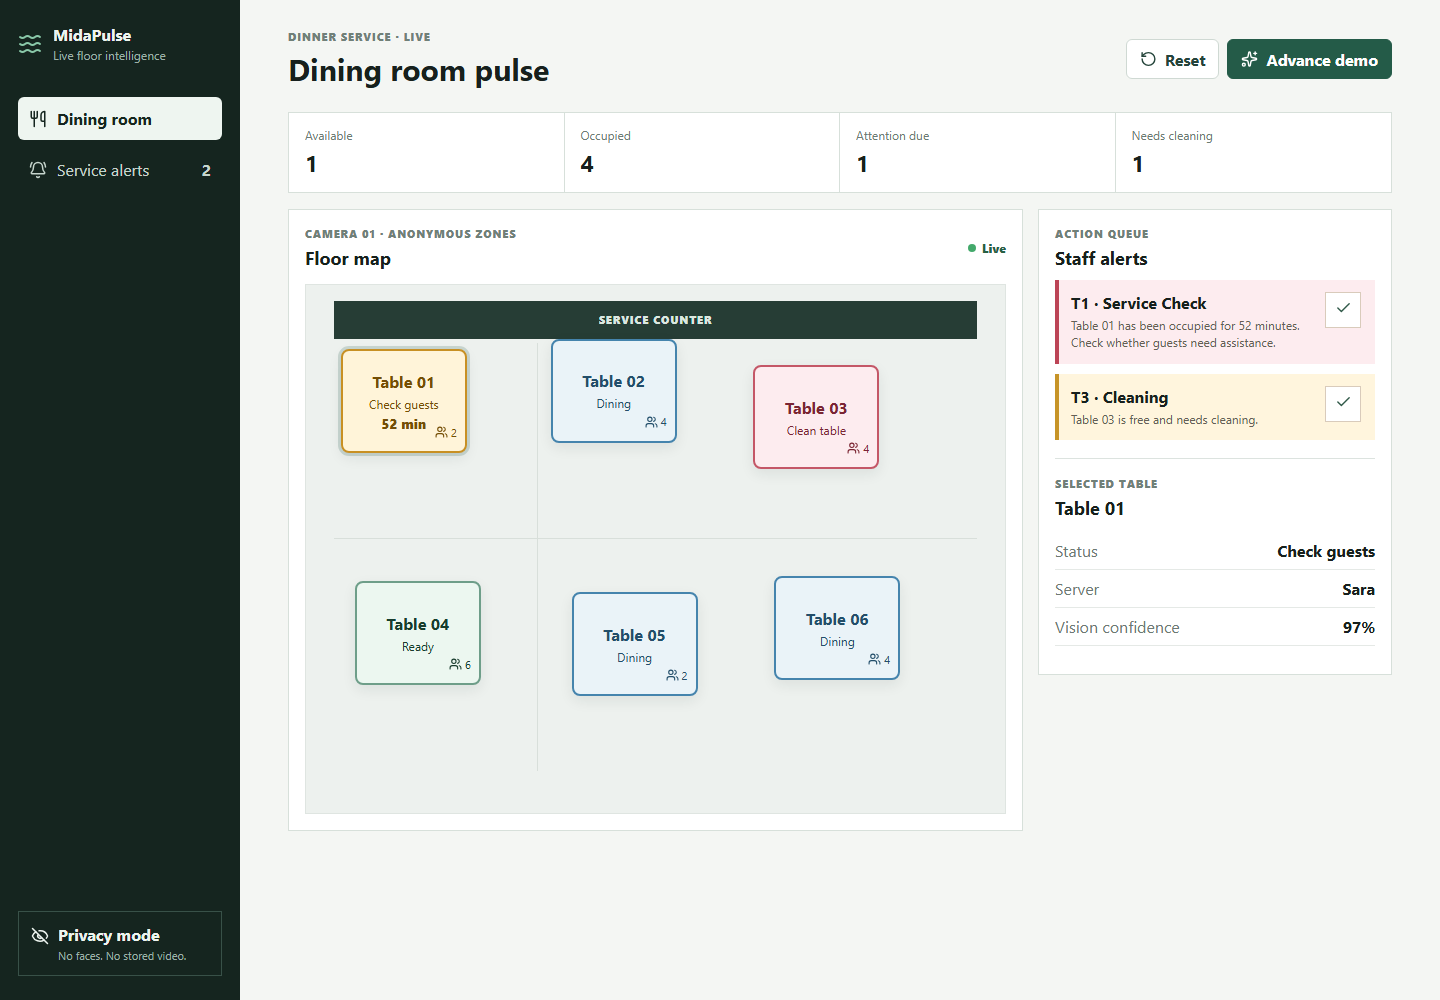
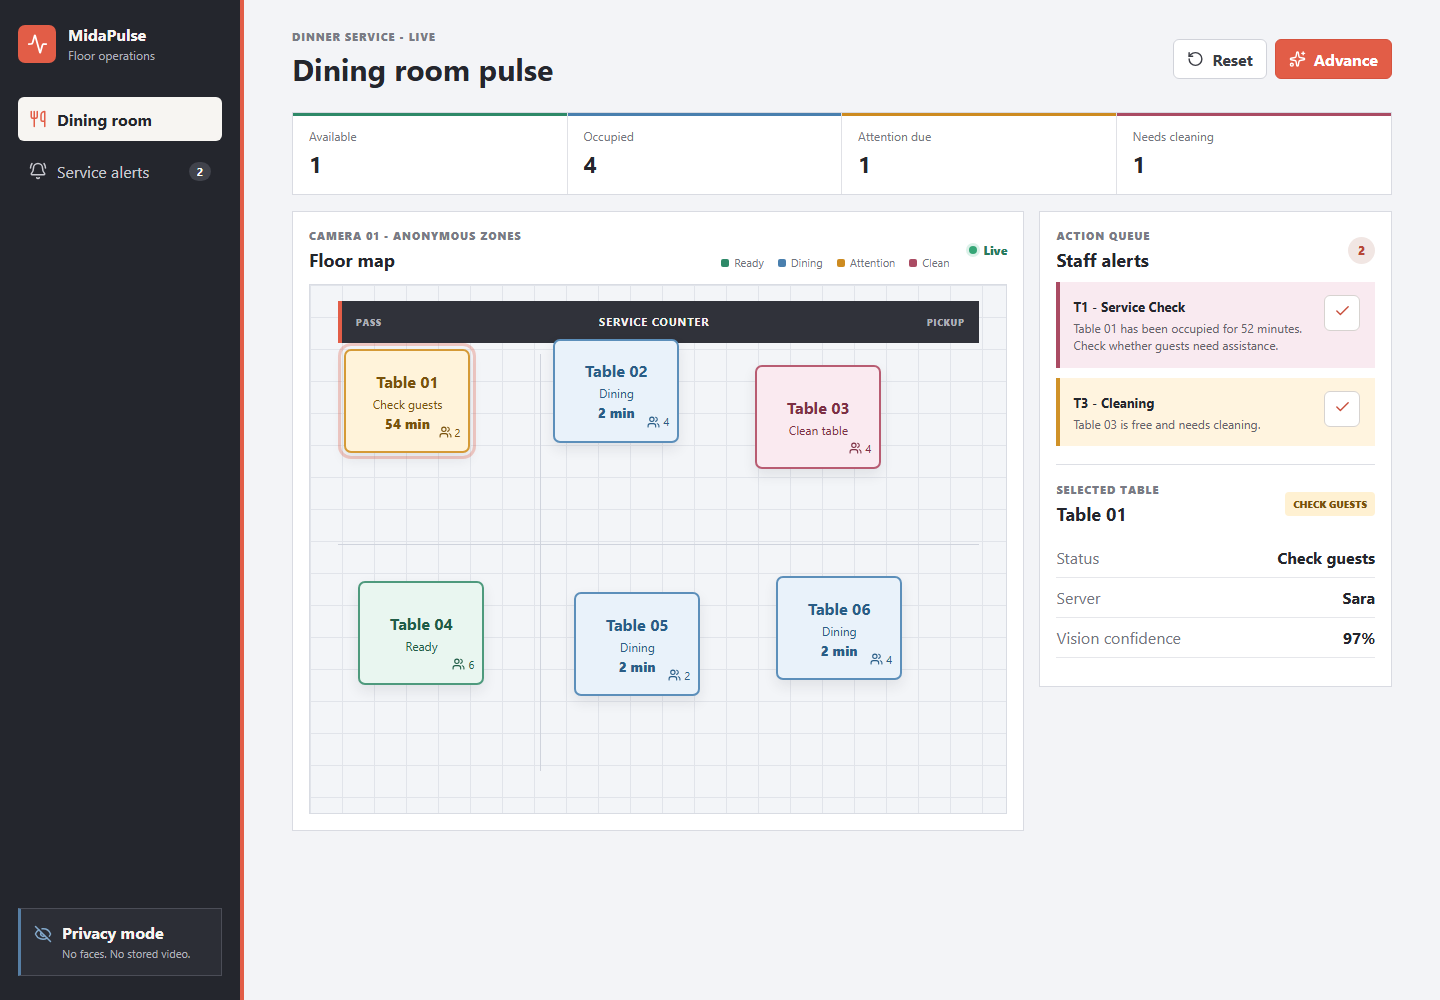
style: give MidaPulse a distinct visual identity

diff --git a/frontend/src/styles.css b/frontend/src/styles.css
@@ -1,1 +1,1 @@
-:root{font-family:Inter,ui-sans-serif,system-ui,sans-serif;color:#17201d;background:#f4f6f3;font-synthesis:none}*{box-sizing:border-box}body{margin:0;min-width:320px}button{font:inherit;cursor:pointer}.app{min-height:100vh;display:grid;grid-template-columns:240px minmax(0,1fr)}aside{position:sticky;top:0;height:100vh;padding:24px 18px;background:#15251f;color:#edf4ef;display:flex;flex-direction:column;gap:34px}.brand{display:flex;gap:11px;align-items:center}.brand svg{color:#8ac9a9}.brand strong,.brand span{display:block}.brand span{margin-top:2px;color:#9eb1a8;font-size:12px}nav{display:grid;gap:8px}nav button{min-height:43px;border:0;border-radius:6px;padding:0 11px;display:flex;align-items:center;gap:10px;background:transparent;color:#c6d5cd;text-align:left}nav button svg{width:18px}nav button b{margin-left:auto}nav button.active{background:#eef5f0;color:#15251f;font-weight:750}.privacy{margin-top:auto;padding:12px;border:1px solid #385148;display:flex;gap:9px;align-items:flex-start}.privacy svg{width:18px}.privacy strong,.privacy span{display:block}.privacy span{margin-top:3px;color:#9eb1a8;font-size:11px}main{min-width:0;padding:29px clamp(18px,3.5vw,48px)}header,.section-title{display:flex;align-items:center;justify-content:space-between;gap:14px}.eyebrow{margin:0 0 5px;color:#708078;font-size:11px;text-transform:uppercase;font-weight:850;letter-spacing:.08em}h1,h2{margin:0;letter-spacing:0}h1{font-size:30px}h2{font-size:18px}.actions{display:flex;gap:8px}.actions button,.wide{min-height:40px;border:1px solid #cfd9d3;border-radius:6px;padding:0 13px;display:flex;gap:8px;align-items:center;background:white;color:#24443a;font-weight:750}.actions svg{width:17px}.actions .primary,.primary{border-color:#245b48;background:#245b48;color:white}.metrics{display:grid;grid-template-columns:repeat(4,1fr);margin:23px 0 16px;border:1px solid #d7e0da;background:white}.metrics div{padding:14px 16px;border-right:1px solid #d7e0da}.metrics div:last-child{border:0}.metrics span{display:block;color:#6d7c74;font-size:12px}.metrics strong{display:block;margin-top:4px;font-size:23px}.grid{display:grid;grid-template-columns:minmax(540px,1.35fr) minmax(320px,.65fr);gap:15px}.floor,.right{border:1px solid #d7e0da;background:white;padding:16px}.live{display:flex;align-items:center;gap:6px;color:#276044;font-size:12px;font-weight:800}.live i{width:8px;height:8px;border-radius:50%;background:#43a96b}.map{height:530px;position:relative;margin-top:14px;overflow:hidden;border:1px solid #dfe5e1;background:#edf1ee}.map:before,.map:after{content:"";position:absolute;background:#d8dfda}.map:before{left:33%;top:11%;bottom:8%;width:1px}.map:after{top:48%;left:4%;right:4%;height:1px}.bar{position:absolute;left:4%;right:4%;top:3%;height:38px;display:grid;place-items:center;background:#263d35;color:#dce8e1;font-size:11px;font-weight:800;letter-spacing:.08em}.table{position:absolute;transform:translate(-50%,-50%);width:126px;height:104px;border:2px solid #6e9e89;border-radius:8px;padding:10px;background:#ecf7f0;color:#183c2d;z-index:1;box-shadow:0 5px 14px rgba(22,42,34,.08)}.table strong,.table span,.table small{display:block}.table span{margin-top:4px;font-size:12px}.table small{margin-top:3px;font-weight:800}.table em{position:absolute;right:8px;bottom:7px;display:flex;gap:3px;align-items:center;font-style:normal;font-size:11px}.table em svg{width:13px}.table.selected{outline:3px solid rgba(31,91,70,.18)}.table.occupied{border-color:#4584ad;background:#eaf3f8;color:#224e6a}.table.attention_due{border-color:#c89023;background:#fff4d9;color:#744e05}.table.vacated_needs_cleaning{border-color:#c45767;background:#fdecef;color:#7b2533}.table.cleaning{border-color:#7c66a7;background:#f1edf8;color:#534174}.right{align-self:start}.alert{display:grid;grid-template-columns:1fr 38px;gap:8px;padding:12px;margin-top:10px;border-left:4px solid #c79427;background:#fff5dd}.alert.high{border-left-color:#bc4456;background:#fdecef}.alert strong{text-transform:capitalize}.alert p{margin:4px 0 0;color:#655f55;font-size:12px;line-height:1.45}.alert button{width:36px;height:36px;border:1px solid #d9cbbb;background:white;color:#315a49}.alert button svg{width:17px}.table-detail{margin-top:18px;padding-top:17px;border-top:1px solid #dce3df}.table-detail dl{margin:12px 0}.table-detail dl div{display:flex;justify-content:space-between;padding:8px 0;border-bottom:1px solid #e5e9e6}.table-detail dt{color:#6d7973}.table-detail dd{margin:0;font-weight:750}.wide{width:100%;justify-content:center}.empty{color:#748078;padding:14px 0}.error{margin-top:15px;padding:10px 12px;border:1px solid #e3c16f;background:#fff7e4;color:#6c4b05}@media(max-width:1000px){.grid{grid-template-columns:1fr}}@media(max-width:720px){.app{grid-template-columns:1fr}aside{position:relative;height:auto}.privacy{margin-top:0}main{padding:19px 13px}header{align-items:flex-start;flex-direction:column}.metrics{grid-template-columns:repeat(2,1fr)}.grid{grid-template-columns:1fr}.map{height:500px}.table{width:105px;height:92px}.actions{width:100%}.actions button{flex:1;justify-content:center}}
+:root{font-family:Inter,ui-sans-serif,system-ui,sans-serif;color:#24262d;background:#f3f4f7;font-synthesis:none}*{box-sizing:border-box}body{margin:0;min-width:320px}button{font:inherit;cursor:pointer}.app{min-height:100vh;display:grid;grid-template-columns:244px minmax(0,1fr)}aside{position:sticky;top:0;height:100vh;padding:24px 18px;background:#24262d;color:#f7f5f2;display:flex;flex-direction:column;gap:34px;border-right:4px solid #e25d47}.brand{display:flex;gap:12px;align-items:center}.brand-mark{width:38px;height:38px;display:grid!important;place-items:center;border-radius:7px;background:#e25d47;color:white}.brand-mark svg{width:21px}.brand strong,.brand span{display:block}.brand>div span{margin-top:2px;color:#aeb0ba;font-size:12px}nav{display:grid;gap:8px}nav button{min-height:44px;border:0;border-radius:6px;padding:0 11px;display:flex;align-items:center;gap:10px;background:transparent;color:#c9cad1;text-align:left}nav button svg{width:18px}nav button b{margin-left:auto;min-width:22px;padding:2px 6px;border-radius:10px;background:#41434c;color:#fff;text-align:center;font-size:11px}nav button.active{background:#f7f5f2;color:#24262d;font-weight:750}nav button.active svg{color:#e25d47}.privacy{margin-top:auto;padding:13px;border:1px solid #4b4d57;border-left:3px solid #577fa5;display:flex;gap:10px;align-items:flex-start;background:#2c2e36}.privacy svg{width:18px;color:#83a9cc}.privacy strong,.privacy span{display:block}.privacy span{margin-top:3px;color:#afb1ba;font-size:11px;line-height:1.45}main{min-width:0;padding:29px clamp(18px,3.5vw,48px)}header,.section-title,.detail-heading{display:flex;align-items:center;justify-content:space-between;gap:14px}.eyebrow{margin:0 0 5px;color:#797b85;font-size:11px;text-transform:uppercase;font-weight:850;letter-spacing:.08em}h1,h2{margin:0;letter-spacing:0}h1{font-size:30px}h2{font-size:18px}.actions{display:flex;gap:8px}.actions button,.wide{min-height:40px;border:1px solid #d1d3da;border-radius:6px;padding:0 13px;display:flex;gap:8px;align-items:center;background:white;color:#3b3d45;font-weight:750}.actions svg{width:17px}.actions .primary,.primary{border-color:#d5523e;background:#e25d47;color:white}.actions button:hover,.alert button:hover{border-color:#9b9da6}.actions .primary:hover,.primary:hover{background:#cc4e3b}.actions button:disabled{cursor:wait;opacity:.65}.metrics{display:grid;grid-template-columns:repeat(4,1fr);margin:23px 0 16px;border:1px solid #d9dbe2;background:white}.metrics div{position:relative;padding:15px 16px;border-right:1px solid #e0e1e6}.metrics div:before{content:"";position:absolute;left:0;right:0;top:0;height:3px;background:#2e8968}.metrics div:nth-child(2):before{background:#497fae}.metrics div:nth-child(3):before{background:#cd8b20}.metrics div:nth-child(4):before{background:#aa4b63}.metrics div:last-child{border:0}.metrics span{display:block;color:#747680;font-size:12px}.metrics strong{display:block;margin-top:4px;font-size:23px}.grid{display:grid;grid-template-columns:minmax(540px,1.35fr) minmax(320px,.65fr);gap:15px}.floor,.right{border:1px solid #d9dbe2;background:white;padding:16px}.live{display:flex;align-items:center;gap:6px;color:#277a5d;font-size:12px;font-weight:800}.live i{width:8px;height:8px;border-radius:50%;background:#35a676;box-shadow:0 0 0 3px #dcf1e9}.legend{display:flex;flex-wrap:wrap;justify-content:flex-end;gap:14px;margin-top:-17px;margin-right:58px;color:#71737c;font-size:11px}.legend span{display:flex;align-items:center;gap:5px}.legend i{width:8px;height:8px;border-radius:2px;background:#2e8968}.legend i.dining{background:#497fae}.legend i.attention{background:#cd8b20}.legend i.clean{background:#aa4b63}.map{height:530px;position:relative;margin-top:14px;overflow:hidden;border:1px solid #d9dce3;background-color:#f3f5f8;background-image:linear-gradient(#e1e4ea 1px,transparent 1px),linear-gradient(90deg,#e1e4ea 1px,transparent 1px);background-size:32px 32px}.map:before,.map:after{content:"";position:absolute;background:#cfd3dc}.map:before{left:33%;top:13%;bottom:8%;width:1px}.map:after{top:49%;left:4%;right:4%;height:1px}.bar{position:absolute;left:4%;right:4%;top:3%;height:42px;padding:0 14px;display:flex;align-items:center;justify-content:space-between;border-left:4px solid #e25d47;background:#30323a;color:#f7f5f2;text-transform:uppercase}.bar strong{font-size:11px;letter-spacing:.08em}.bar span{color:#aeb0b8;font-size:9px;font-weight:800;letter-spacing:.08em}.table{position:absolute;transform:translate(-50%,-50%);width:126px;height:104px;border:2px solid #4e9a7d;border-radius:7px;padding:10px;background:#e9f6f0;color:#205d47;z-index:1;box-shadow:0 6px 14px rgba(36,38,45,.09);transition:transform .16s ease,box-shadow .16s ease}.table:hover{transform:translate(-50%,-52%);box-shadow:0 9px 18px rgba(36,38,45,.14)}.table strong,.table span,.table small{display:block}.table strong{font-size:16px}.table span{margin-top:4px;font-size:12px}.table small{margin-top:3px;font-weight:800}.table em{position:absolute;right:8px;bottom:7px;display:flex;gap:3px;align-items:center;font-style:normal;font-size:11px}.table em svg{width:13px}.table.selected{outline:3px solid rgba(226,93,71,.3);outline-offset:3px}.table.occupied{border-color:#5c8fba;background:#e9f2fa;color:#295d87}.table.attention_due{border-color:#d59a36;background:#fff3da;color:#79520c}.table.vacated_needs_cleaning{border-color:#b85c72;background:#faeaf0;color:#7d3044}.table.cleaning{border-color:#7863a4;background:#f0edf8;color:#554177}.table.out_of_service{border-color:#80828a;background:#ececef;color:#575961}.right{align-self:start}.queue-count{min-width:27px;height:27px;padding:0 8px;display:grid;place-items:center;border-radius:14px;background:#f1e6e3;color:#b74736;font-size:12px;font-weight:850}.alert{display:grid;grid-template-columns:1fr 38px;gap:8px;padding:13px;margin-top:10px;border-left:4px solid #d09228;background:#fff4df}.alert.high{border-left-color:#aa4b63;background:#f9eaf0}.alert strong{text-transform:capitalize;font-size:13px}.alert p{margin:4px 0 0;color:#66636a;font-size:12px;line-height:1.45}.alert button{width:36px;height:36px;border:1px solid #d7d3d0;border-radius:6px;background:white;color:#c84f3c}.alert button svg{width:17px}.table-detail{margin-top:18px;padding-top:17px;border-top:1px solid #dddfe5}.state-pill{padding:5px 8px;border-radius:4px;background:#e9f6f0;color:#276c52;font-size:10px;font-weight:850;text-transform:uppercase}.state-pill.occupied{background:#e9f2fa;color:#295d87}.state-pill.attention_due{background:#fff1d2;color:#79520c}.state-pill.vacated_needs_cleaning{background:#faeaf0;color:#7d3044}.state-pill.cleaning{background:#f0edf8;color:#554177}.table-detail dl{margin:12px 0}.table-detail dl div{display:flex;justify-content:space-between;padding:9px 0;border-bottom:1px solid #e6e7eb}.table-detail dt{color:#73757e}.table-detail dd{margin:0;font-weight:750}.wide{width:100%;justify-content:center}.empty{color:#747680;padding:14px 0}.error{margin-top:15px;padding:10px 12px;border:1px solid #e1bd70;background:#fff6df;color:#6c4b05}@media(max-width:1100px){.legend{margin:12px 0 0;justify-content:flex-start}.grid{grid-template-columns:1fr}}@media(max-width:720px){.app{grid-template-columns:1fr}aside{position:relative;height:auto;border-right:0;border-bottom:4px solid #e25d47;gap:20px}.privacy{margin-top:0}main{padding:19px 13px}header{align-items:flex-start;flex-direction:column}.metrics{grid-template-columns:repeat(2,1fr)}.metrics div:nth-child(2){border-right:0}.grid{grid-template-columns:1fr}.floor,.right{padding:13px}.map{height:500px;background-size:24px 24px}.table{width:105px;height:92px}.actions{width:100%}.actions button{flex:1;justify-content:center}}

diff --git a/frontend/src/main.tsx b/frontend/src/main.tsx
@@ -1,7 +1,8 @@
 import React, { useEffect, useMemo, useState } from "react";
 import { createRoot } from "react-dom/client";
-import { BellRing, Check, EyeOff, RotateCcw, Sparkles, Users, Utensils, Waves } from "lucide-react";
+import { Activity, BellRing, Check, EyeOff, RotateCcw, Sparkles, Users, Utensils } from "lucide-react";
 import "./styles.css";
+import "./responsive.css";
 
 const API = import.meta.env.VITE_API_URL || "http://127.0.0.1:8100";
 type State = "available_clean" | "occupied" | "attention_due" | "vacated_needs_cleaning" | "cleaning" | "out_of_service";
@@ -18,13 +19,13 @@ function App(){
   const act=async(path:string,body?:object)=>{setBusy(true);await fetch(`${API}${path}`,{method:"POST",headers:{"Content-Type":"application/json"},body:body?JSON.stringify(body):undefined});await load();setBusy(false);};
   const chosen=useMemo(()=>data.tables.find(t=>t.id===selected),[data,selected]);
   return <div className="app">
-    <aside><div className="brand"><Waves/><div><strong>MidaPulse</strong><span>Live floor intelligence</span></div></div><nav><button className="active"><Utensils/>Dining room</button><button><BellRing/>Service alerts <b>{data.alerts.length}</b></button></nav><div className="privacy"><EyeOff/><div><strong>Privacy mode</strong><span>No faces. No stored video.</span></div></div></aside>
-    <main><header><div><p className="eyebrow">Dinner service · Live</p><h1>Dining room pulse</h1></div><div className="actions"><button onClick={()=>act("/api/demo/reset")}><RotateCcw/>Reset</button><button className="primary" onClick={()=>act("/api/demo/step")} disabled={busy}><Sparkles/>Advance demo</button></div></header>
+    <aside><div className="brand"><span className="brand-mark"><Activity/></span><div><strong>MidaPulse</strong><span>Floor operations</span></div></div><nav><button className="active"><Utensils/>Dining room</button><button><BellRing/>Service alerts <b>{data.alerts.length}</b></button></nav><div className="privacy"><EyeOff/><div><strong>Privacy mode</strong><span>No faces. No stored video.</span></div></div></aside>
+    <main><header><div><p className="eyebrow">Dinner service - Live</p><h1>Dining room pulse</h1></div><div className="actions"><button onClick={()=>act("/api/demo/reset")}><RotateCcw/>Reset</button><button className="primary" onClick={()=>act("/api/demo/step")} disabled={busy}><Sparkles/>Advance</button></div></header>
     {error&&<div className="error">{error}</div>}
     <section className="metrics"><div><span>Available</span><strong>{data.metrics.available||0}</strong></div><div><span>Occupied</span><strong>{data.metrics.occupied||0}</strong></div><div><span>Attention due</span><strong>{data.metrics.attention_due||0}</strong></div><div><span>Needs cleaning</span><strong>{data.metrics.needs_cleaning||0}</strong></div></section>
-    <div className="grid"><section className="floor"><div className="section-title"><div><p className="eyebrow">Camera 01 · Anonymous zones</p><h2>Floor map</h2></div><span className="live"><i/>Live</span></div><div className="map"><div className="bar">SERVICE COUNTER</div>{data.tables.map(t=><button key={t.id} style={{left:`${t.zone_x}%`,top:`${t.zone_y}%`}} className={`table ${t.state} ${selected===t.id?"selected":""}`} onClick={()=>setSelected(t.id)}><strong>{t.label}</strong><span>{labels[t.state]}</span>{t.elapsed_minutes>0&&<small>{t.elapsed_minutes} min</small>}<em><Users/> {t.seats}</em></button>)}</div></section>
-    <section className="right"><div className="section-title"><div><p className="eyebrow">Action queue</p><h2>Staff alerts</h2></div></div>{data.alerts.length===0?<p className="empty">No open alerts. The floor is moving normally.</p>:data.alerts.map(a=><article className={`alert ${a.priority}`} key={a.id}><div><strong>{a.table_id} · {a.alert_type.replaceAll("_"," ")}</strong><p>{a.message}</p></div><button title="Acknowledge" onClick={()=>act(`/api/alerts/${a.id}/acknowledge`,{server:"Sara"})}><Check/></button></article>)}
-    {chosen&&<div className="table-detail"><p className="eyebrow">Selected table</p><h2>{chosen.label}</h2><dl><div><dt>Status</dt><dd>{labels[chosen.state]}</dd></div><div><dt>Server</dt><dd>{chosen.assigned_server||"Unassigned"}</dd></div><div><dt>Vision confidence</dt><dd>{Math.round(chosen.last_confidence*100)}%</dd></div></dl>{chosen.state==="vacated_needs_cleaning"&&<button className="primary wide" onClick={()=>act(`/api/tables/${chosen.id}/cleaning`,{staff:"Nora",action:"complete"})}>Mark clean</button>}</div>}
+    <div className="grid"><section className="floor"><div className="section-title"><div><p className="eyebrow">Camera 01 - Anonymous zones</p><h2>Floor map</h2></div><span className="live"><i/>Live</span></div><div className="legend"><span><i className="ready"/>Ready</span><span><i className="dining"/>Dining</span><span><i className="attention"/>Attention</span><span><i className="clean"/>Clean</span></div><div className="map"><div className="bar"><span>Pass</span><strong>Service counter</strong><span>Pickup</span></div>{data.tables.map(t=><button key={t.id} style={{left:`${t.zone_x}%`,top:`${t.zone_y}%`}} className={`table ${t.state} ${selected===t.id?"selected":""}`} onClick={()=>setSelected(t.id)}><strong>{t.label}</strong><span>{labels[t.state]}</span>{t.elapsed_minutes>0&&<small>{t.elapsed_minutes} min</small>}<em><Users/> {t.seats}</em></button>)}</div></section>
+    <section className="right"><div className="section-title"><div><p className="eyebrow">Action queue</p><h2>Staff alerts</h2></div><span className="queue-count">{data.alerts.length}</span></div>{data.alerts.length===0?<p className="empty">No open alerts. The floor is moving normally.</p>:data.alerts.map(a=><article className={`alert ${a.priority}`} key={a.id}><div><strong>{a.table_id} - {a.alert_type.replaceAll("_"," ")}</strong><p>{a.message}</p></div><button title="Acknowledge alert" aria-label="Acknowledge alert" onClick={()=>act(`/api/alerts/${a.id}/acknowledge`,{server:"Sara"})}><Check/></button></article>)}
+    {chosen&&<div className="table-detail"><div className="detail-heading"><div><p className="eyebrow">Selected table</p><h2>{chosen.label}</h2></div><span className={`state-pill ${chosen.state}`}>{labels[chosen.state]}</span></div><dl><div><dt>Status</dt><dd>{labels[chosen.state]}</dd></div><div><dt>Server</dt><dd>{chosen.assigned_server||"Unassigned"}</dd></div><div><dt>Vision confidence</dt><dd>{Math.round(chosen.last_confidence*100)}%</dd></div></dl>{chosen.state==="vacated_needs_cleaning"&&<button className="primary wide" onClick={()=>act(`/api/tables/${chosen.id}/cleaning`,{staff:"Nora",action:"complete"})}>Mark clean</button>}</div>}
     </section></div></main></div>
 }
 createRoot(document.getElementById("root")!).render(<React.StrictMode><App/></React.StrictMode>);

diff --git a/frontend/src/responsive.css b/frontend/src/responsive.css
@@ -1,0 +1,83 @@
+@media (max-width: 720px) {
+  body {
+    overflow-x: hidden;
+  }
+
+  html,
+  body,
+  #root {
+    width: 100%;
+    max-width: 100%;
+  }
+
+  .app,
+  .grid {
+    grid-template-columns: minmax(0, 1fr);
+  }
+
+  .grid {
+    display: block;
+  }
+
+  .right {
+    margin-top: 15px;
+  }
+
+  .app,
+  main,
+  .grid,
+  .floor,
+  .right,
+  .map {
+    width: 100%;
+    min-width: 0;
+    max-width: 100%;
+  }
+
+  main {
+    overflow: hidden;
+  }
+
+  .actions {
+    display: grid;
+    grid-template-columns: minmax(0, 1fr) minmax(0, 1.35fr);
+  }
+
+  .actions button {
+    min-width: 0;
+    padding: 0 8px;
+    gap: 4px;
+    font-size: 12px;
+    white-space: nowrap;
+  }
+
+  .map {
+    height: auto;
+    padding: 15px;
+    display: grid;
+    grid-template-columns: repeat(2, minmax(0, 1fr));
+    gap: 12px;
+  }
+
+  .map::before,
+  .map::after {
+    display: none;
+  }
+
+  .bar {
+    position: relative;
+    inset: auto;
+    grid-column: 1 / -1;
+  }
+
+  .table {
+    position: relative;
+    inset: auto !important;
+    width: 100%;
+    transform: none;
+  }
+
+  .table:hover {
+    transform: translateY(-2px);
+  }
+}
